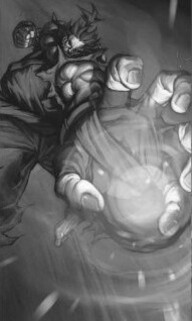
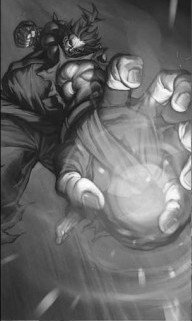
Mouse over ok

diff --git a/script.js b/script.js
@@ -1,47 +1,71 @@
 $(function () {
     // photos aside gauche
+
     var newIndex = 0
-    var index = 0;
+    var oldIndex = 0;
     chargePortrait(0);
     chargeCouleur(0);
         // function pour changer photo aside
         function effacePortrait(z){
             $('.photoCharac').eq(z).animate({
                 opacity:"0"
-            },500);
+            },250);
         }
         function chargePortrait(z){
             $('.photoCharac').eq(z).animate({
                 opacity:"1"
-            },500);
-            index = z;
+            },250);
         }
         function chargeCouleur(z){
             $(('.bw-'+String(z+1))).animate({
                 opacity:"0"
             },250);
+      
+
+            
         }
         function chargeBw(z){
-            if(z == 0)z=8;
-            $(('.bw-'+String(z))).animate({
+            // if(z == 0)z=8;
+            $(('.bw-'+String(z+1))).animate({
                 opacity:"1"
             },250);
+       
+
+          
+        }
+        function animer(){
+            effacePortrait(oldIndex);
+            chargePortrait(newIndex);
+            chargeBw(oldIndex);
+            chargeCouleur(newIndex);
+            oldIndex = newIndex;
         }
 
+    //************************************************ */
+    //* Les listners                                 *
+    //************************************************ */
 
+    // Le hover
+
+    $('.charac').mouseenter(function (e) {
+            // over
+            var a = $(this).index();
+            var add = ($(this).parent().attr('id') == "characList2")?4:0;
+            console.log(add);
+            a += add; 
+            newIndex = a;
+            $(this).css("cursor","pointer");
+            animer();
+            
+            
+            
+        });
+    $('#characGrid').mouseleave(function () { 
+            newIndex = 0;
+            animer();        
+    });
 
         
-    $('.photoCharac').click(function(){
 
-        (newIndex == 7)? newIndex = 0 : newIndex++;
-        console.log(newIndex);
-
-        effacePortrait(index);
-        chargePortrait(newIndex);
-        chargeBw(index);
-        chargeCouleur(newIndex);
-
-
-    });
     
 });

diff --git a/index.html b/index.html
@@ -32,16 +32,16 @@
         </div>
         <div id="characGrid" class="">
             <ul id="characList1" class="">
-                <li class="charac  w-100"><div class="bw bw-1 "></div></li>
+                <li class="charac  w-100 "><div class="bw bw-1 "></div></li>
                 <li class="charac  w-100"><div class="bw bw-2 "></div></li>
                 <li class="charac  w-100"><div class="bw bw-3 "></div></li>
                 <li class="charac  w-100"><div class="bw bw-4 "></div></li>
             </ul>
             <ul id="characList2" class="">
-                <li class="charac  w-100"><div class="bw bw-5"></div></li>
-                <li class="charac  w-100"><div class="bw bw-6"></div></li>
-                <li class="charac  w-100"><div class="bw bw-7"></div></li>
-                <li class="charac  w-100"><div class="bw bw-8"></div></li>
+                <li class="charac  w-100"><div class="bw bw-5 "></div></li>
+                <li class="charac  w-100"><div class="bw bw-6 "></div></li>
+                <li class="charac  w-100"><div class="bw bw-7 "></div></li>
+                <li class="charac  w-100"><div class="bw bw-8 "></div></li>
             </ul>
 
         </div>

diff --git a/style.css b/style.css
@@ -154,7 +154,8 @@ h1{
 {
     flex-grow: 1;
     margin: 0;
-    background-size: 100%;
+    /* background-size: 100%; */
+    background-size: cover;
     background-repeat: no-repeat;
     height: 100%;
     position: relative;
@@ -163,7 +164,7 @@ h1{
 .bw
 {
     margin: 0;
-    background-size: 100%;
+    background-size: cover;
     background-repeat: no-repeat;
     height: 100%;
     width: 100%;
@@ -220,6 +221,7 @@ h1{
     background-image: url(sources/images/Feil_Long_sm_bw.jpg);
 }
 
+
 #stats
 {
     flex-basis: 30%;
@@ -229,7 +231,6 @@ h1{
 {
     display: flex;
     flex-direction: column;
-    /* justify-content: space-evenly; */
     height:100%;
 
 
